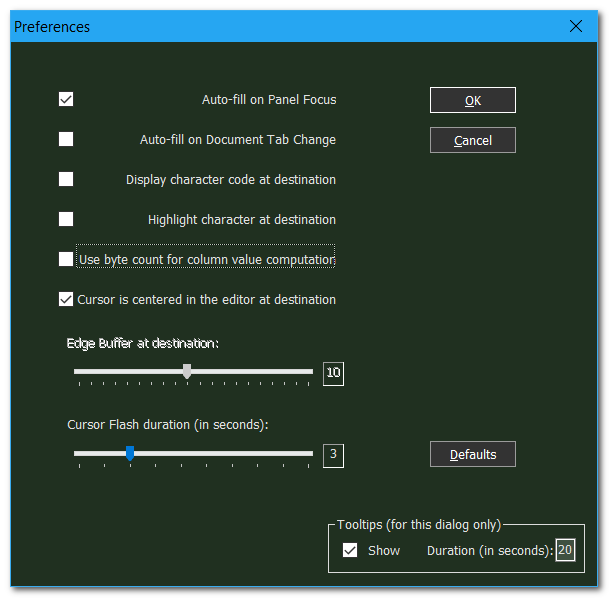
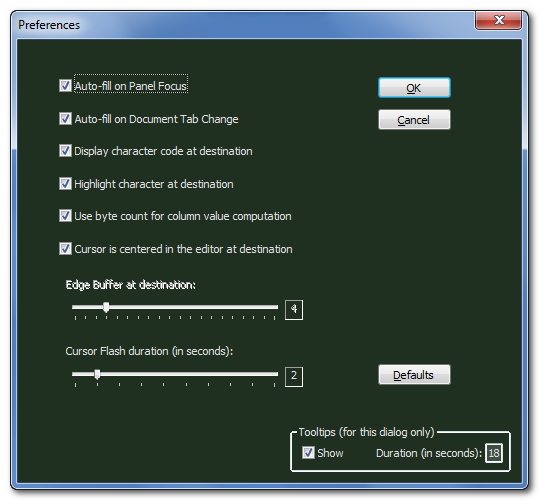
Version update for 2.2.0.0

diff --git a/VersionHistory.md b/VersionHistory.md
@@ -1,5 +1,15 @@
 ## Version History
 
+### Version 2.2.0.0
+
+1. Darkmode for the plugin is now rendered by a separate DLL that can be shared by multiple plugins, thus reducing the overall memory footprint. For instance, if you have both the [FWDataViz](https://github.com/shriprem/FWDataViz) and [GotoLineCol](https://github.com/shriprem/Goto-Line-Col-NPP-Plugin) plugins installed, move the `NPP_Plugin_Darkmode.dll` file either from `<NPP_Plugins_folder>/FWDataViz` or `<NPP_Plugins_folder>/GotoLineCol` folder into the `<NPP_folder>`, and delete `NPP_Plugin_Darkmode.dll` in the other plugin folder.
+
+**Plugin Developers**: For more information on using `NPP_Plugin_Darkmode.dll` in your plugins, please refer to the documentation at the [NPP_Plugin_Darkmode](https://github.com/shriprem/NPP_Plugin_Darkmode) repository.
+
+**Release:** [2.2.0.0 Release](https://github.com/shriprem/Goto-Line-Col-NPP-Plugin/releases/tag/v2.2.0.0)
+
+---
+
 ### Version 2.1.1.0
 #### Enhancement: Consolidated GLC command line options.
  Sample GLC option usage in this version: **` -z -GLCb1;c0;d1;e18;f1;h1;p1;q1`**

diff --git a/README.md b/README.md
@@ -1,6 +1,6 @@
 # GotoLineCol Notepad++ Plugin
 
-[Current Version: 2.1.1.0](https://github.com/shriprem/Goto-Line-Col-NPP-Plugin/blob/master/VersionHistory.md)
+[Current Version: 2.2.0.0](https://github.com/shriprem/Goto-Line-Col-NPP-Plugin/blob/master/VersionHistory.md)
 
 A plugin for navigating to a specified line and column position in a file.
 
